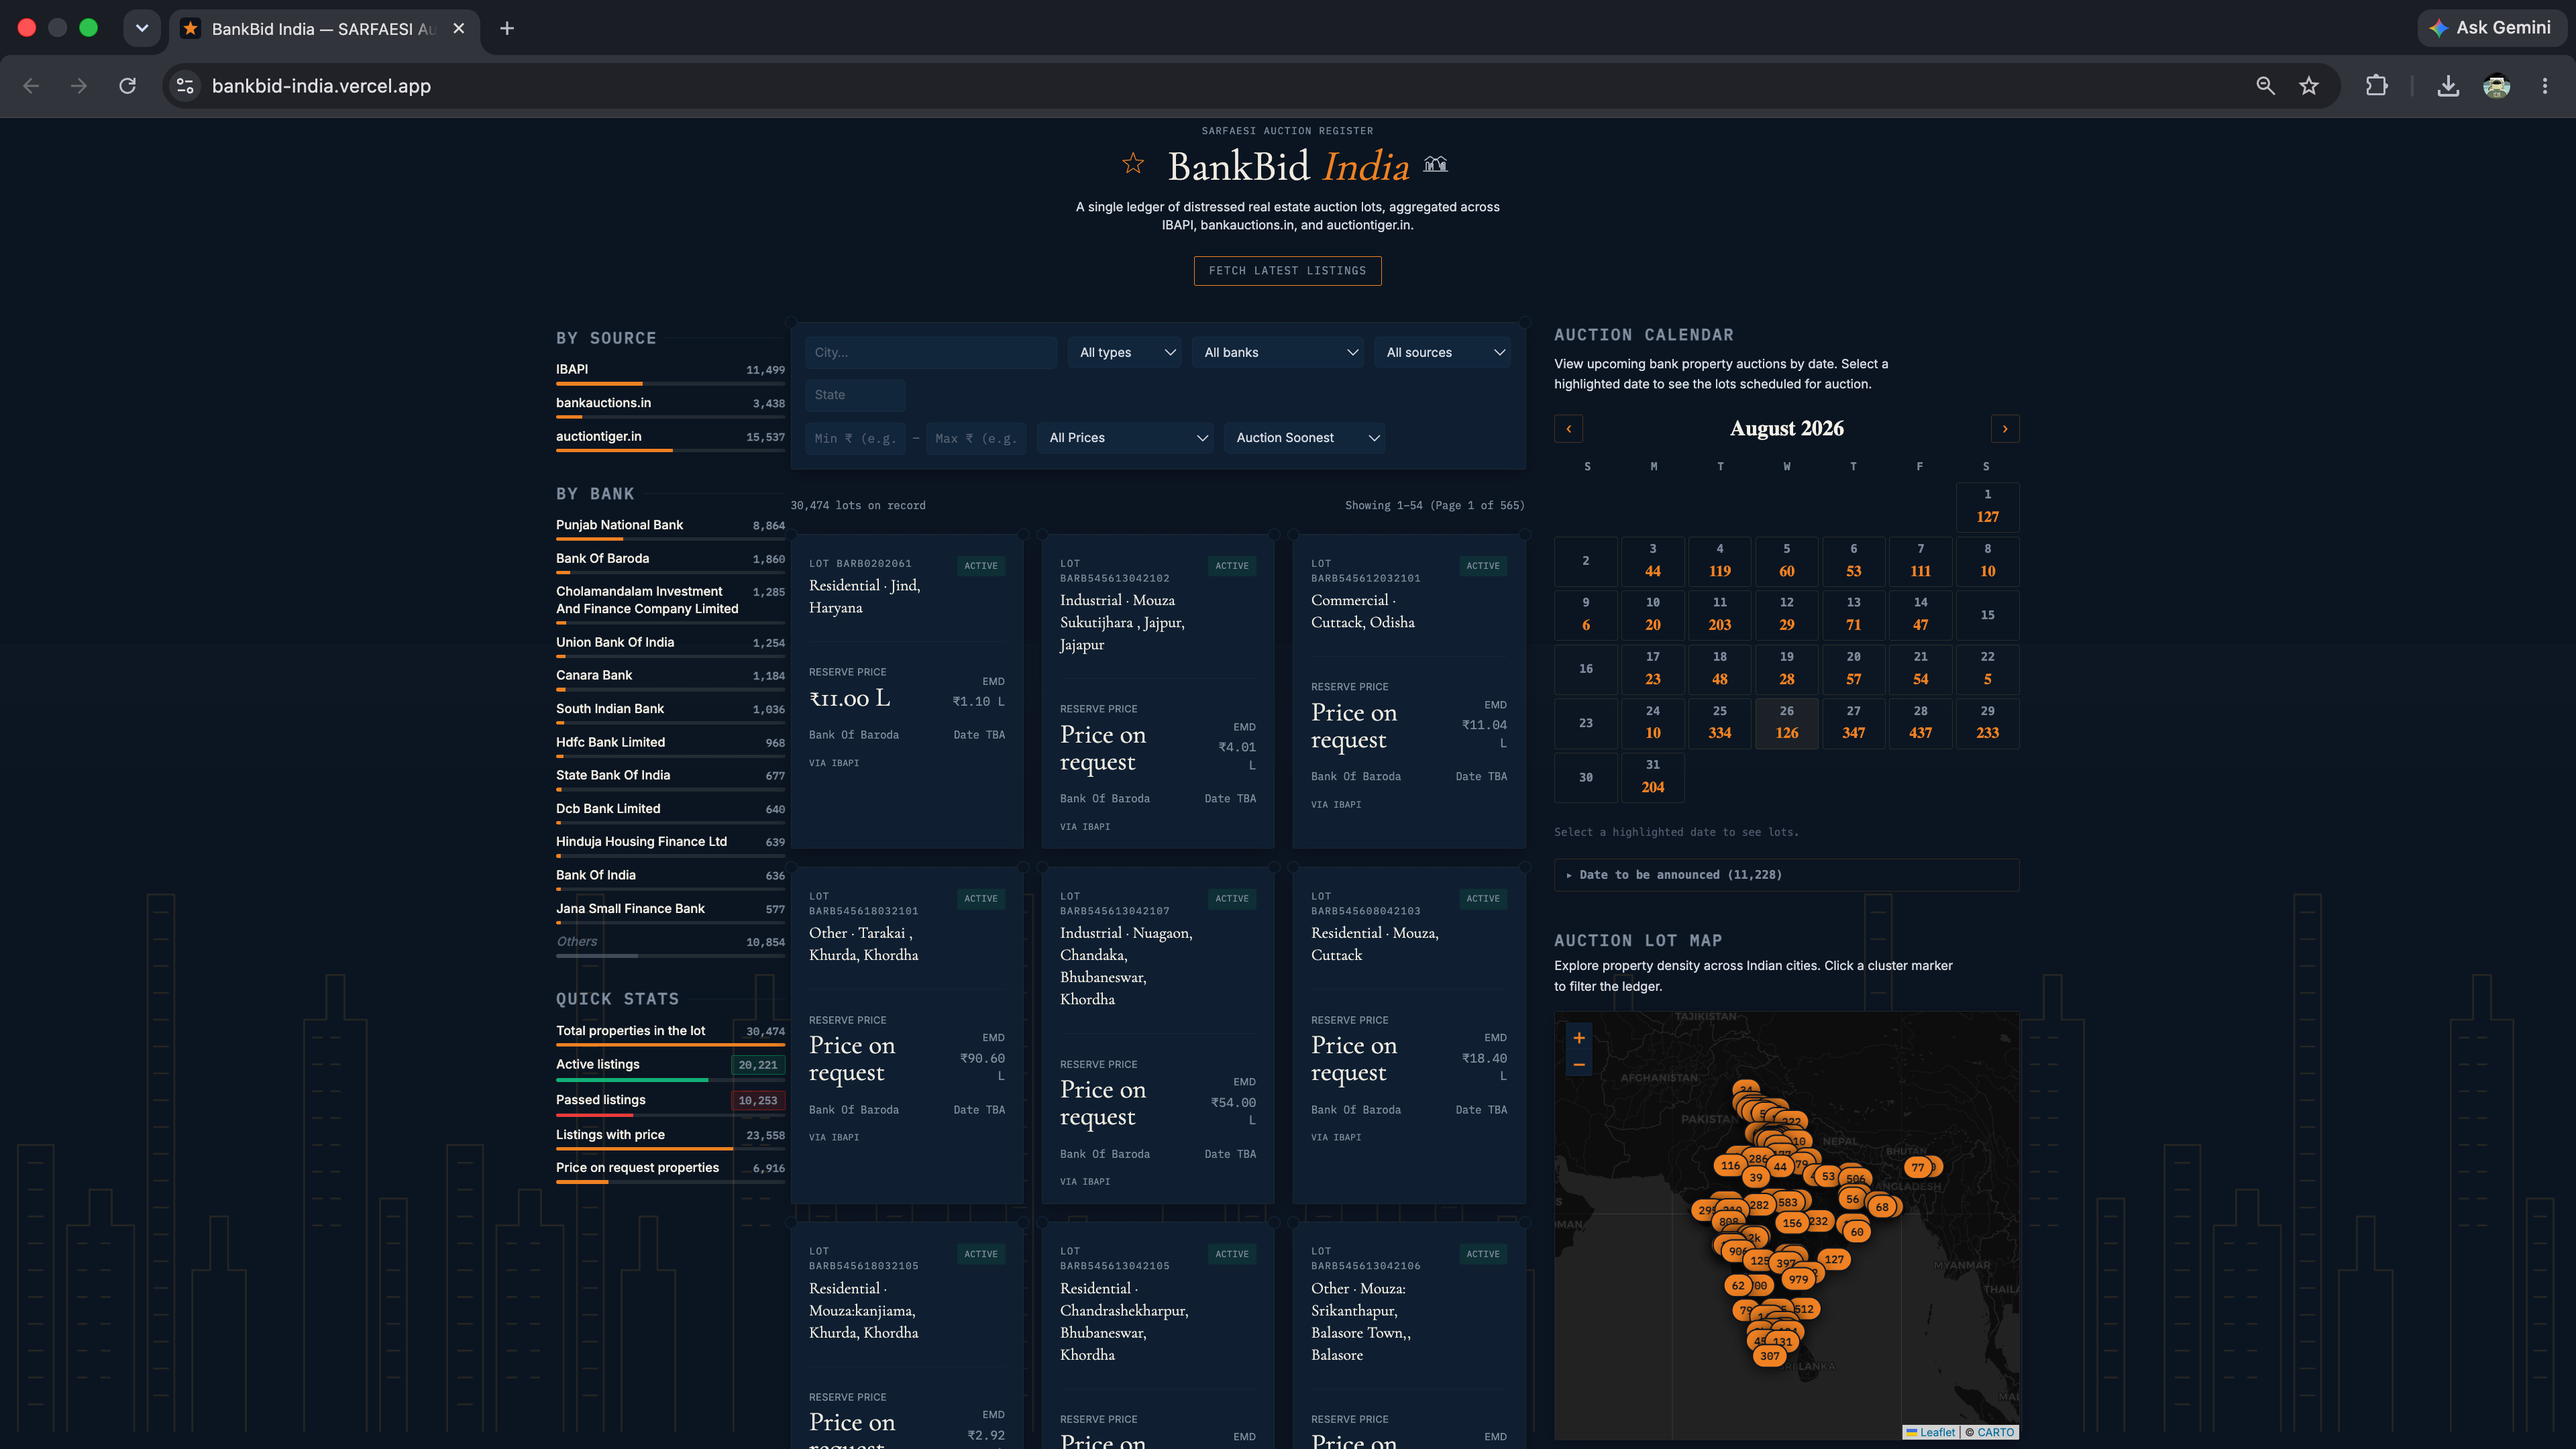
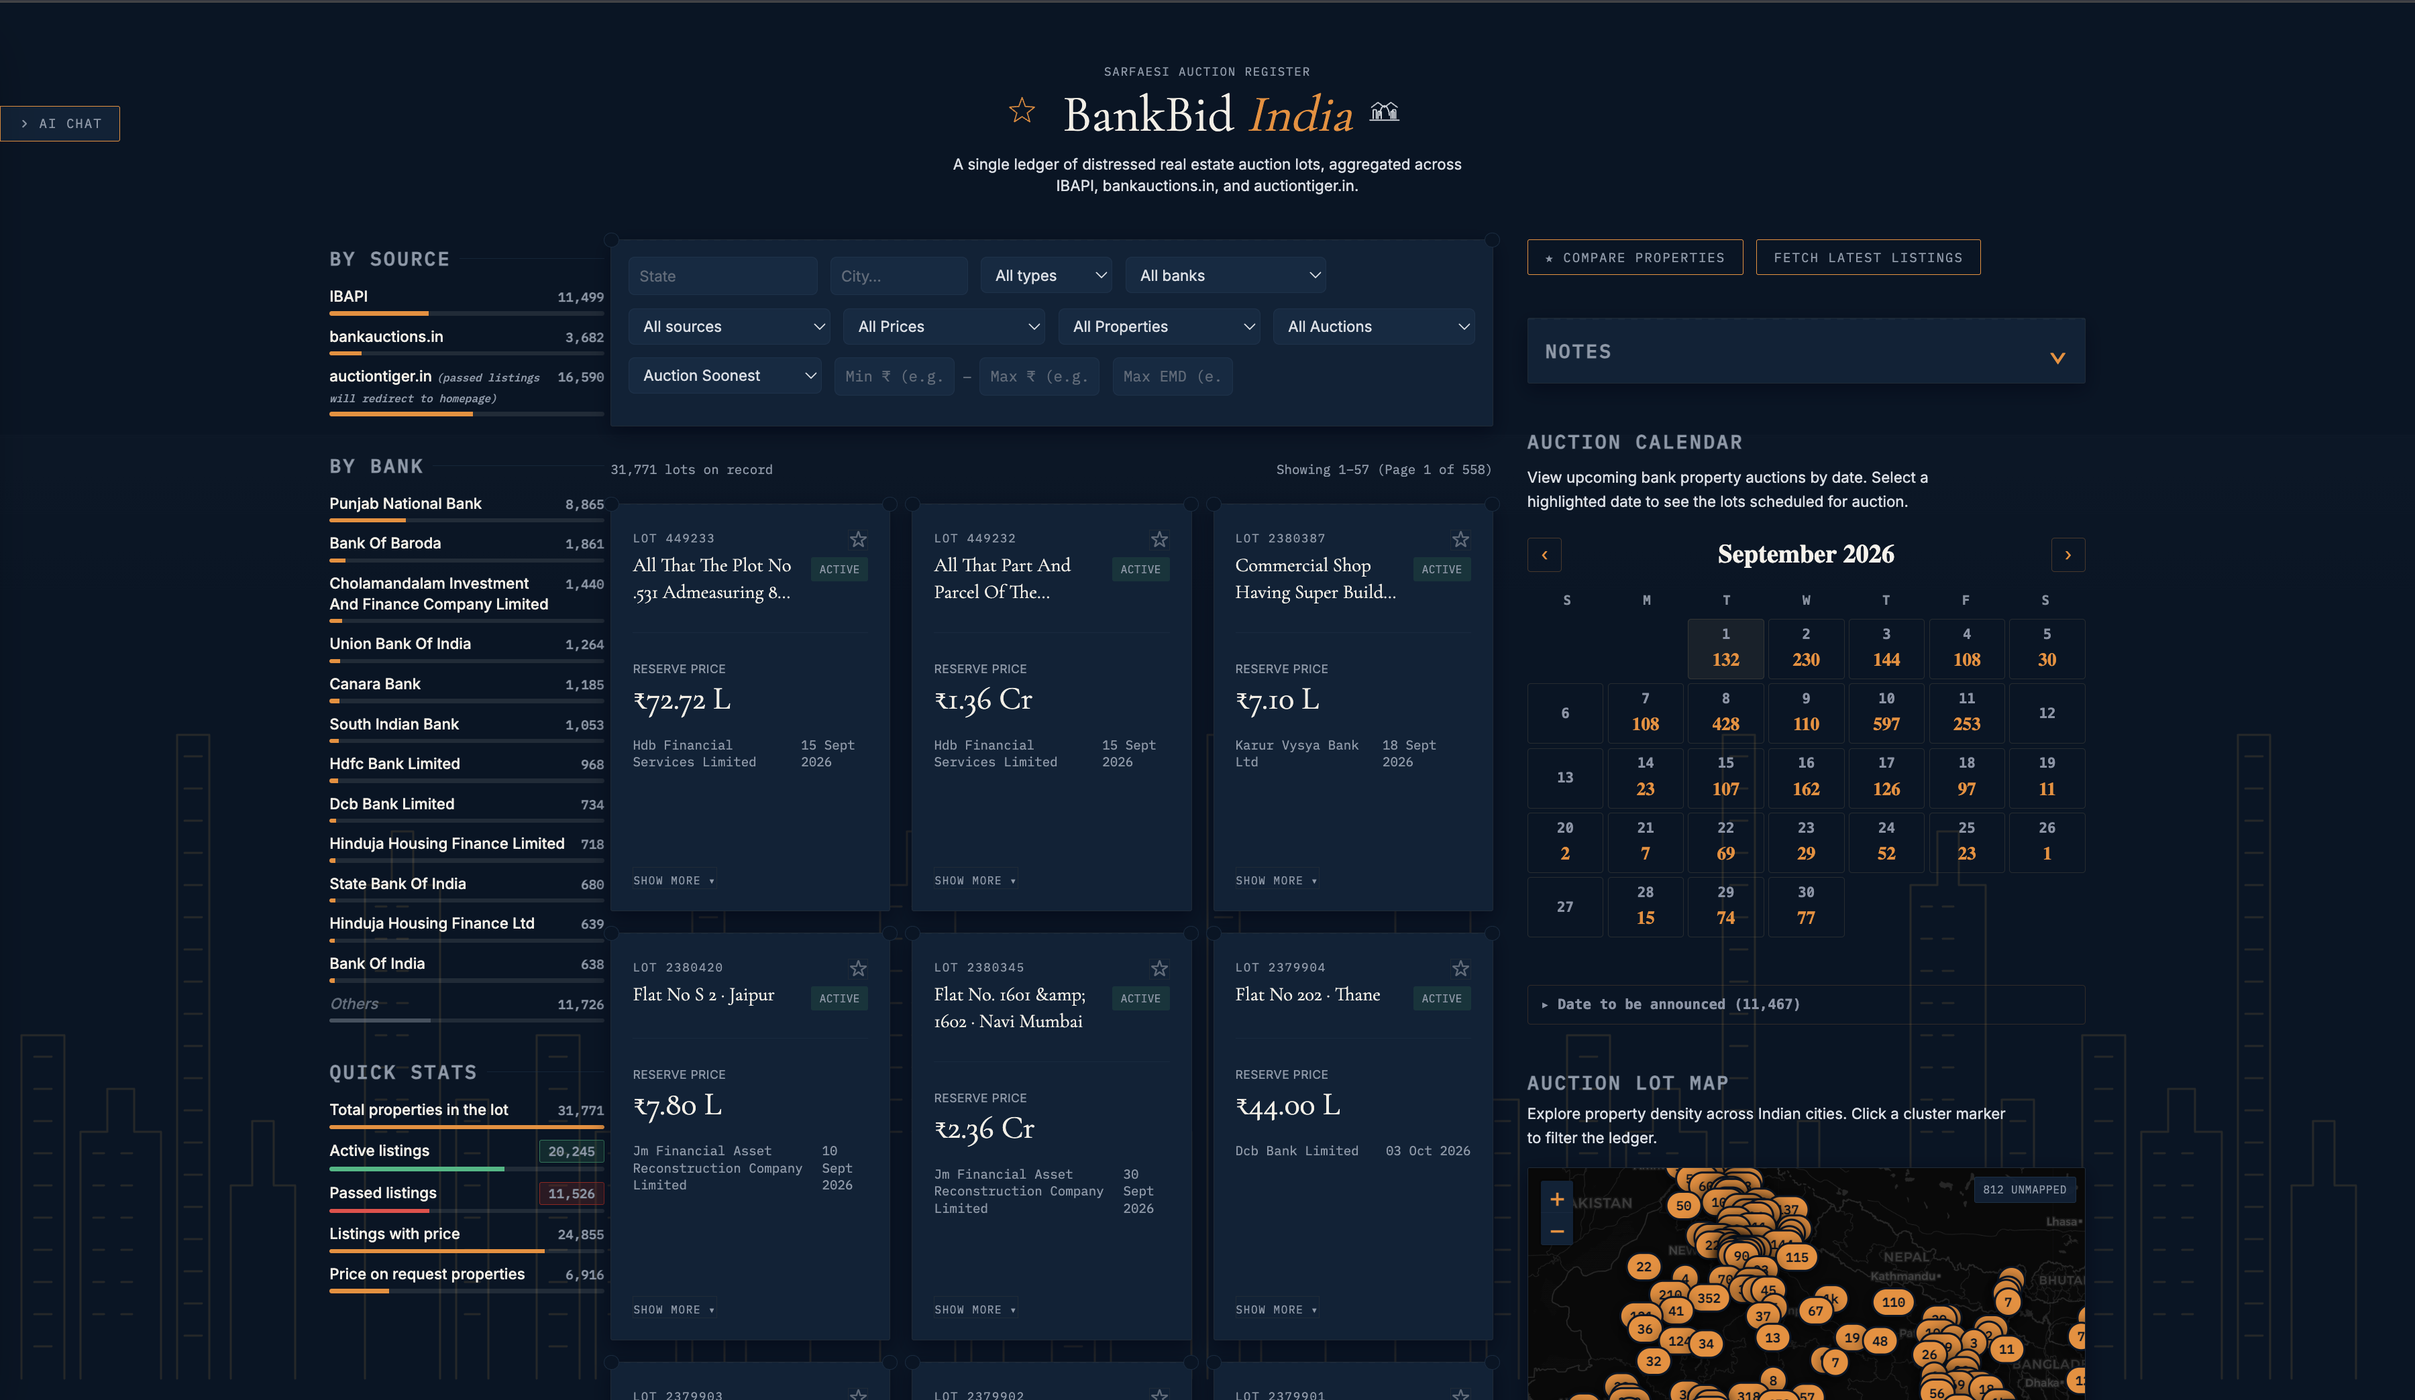
updated readmefile

diff --git a/README.md b/README.md
@@ -12,7 +12,8 @@ BankBid India pulls together SARFAESI auction property listings that are otherwi
 ## Screenshot
 
 ![BankBid India screenshot](docs/Screenshot.png)
-
+![BankBid India screenshot](docs/Screenshot_1.png)
+![BankBid India screenshot](docs/Screenshot_2.png)
 ---
 
 ## Features
